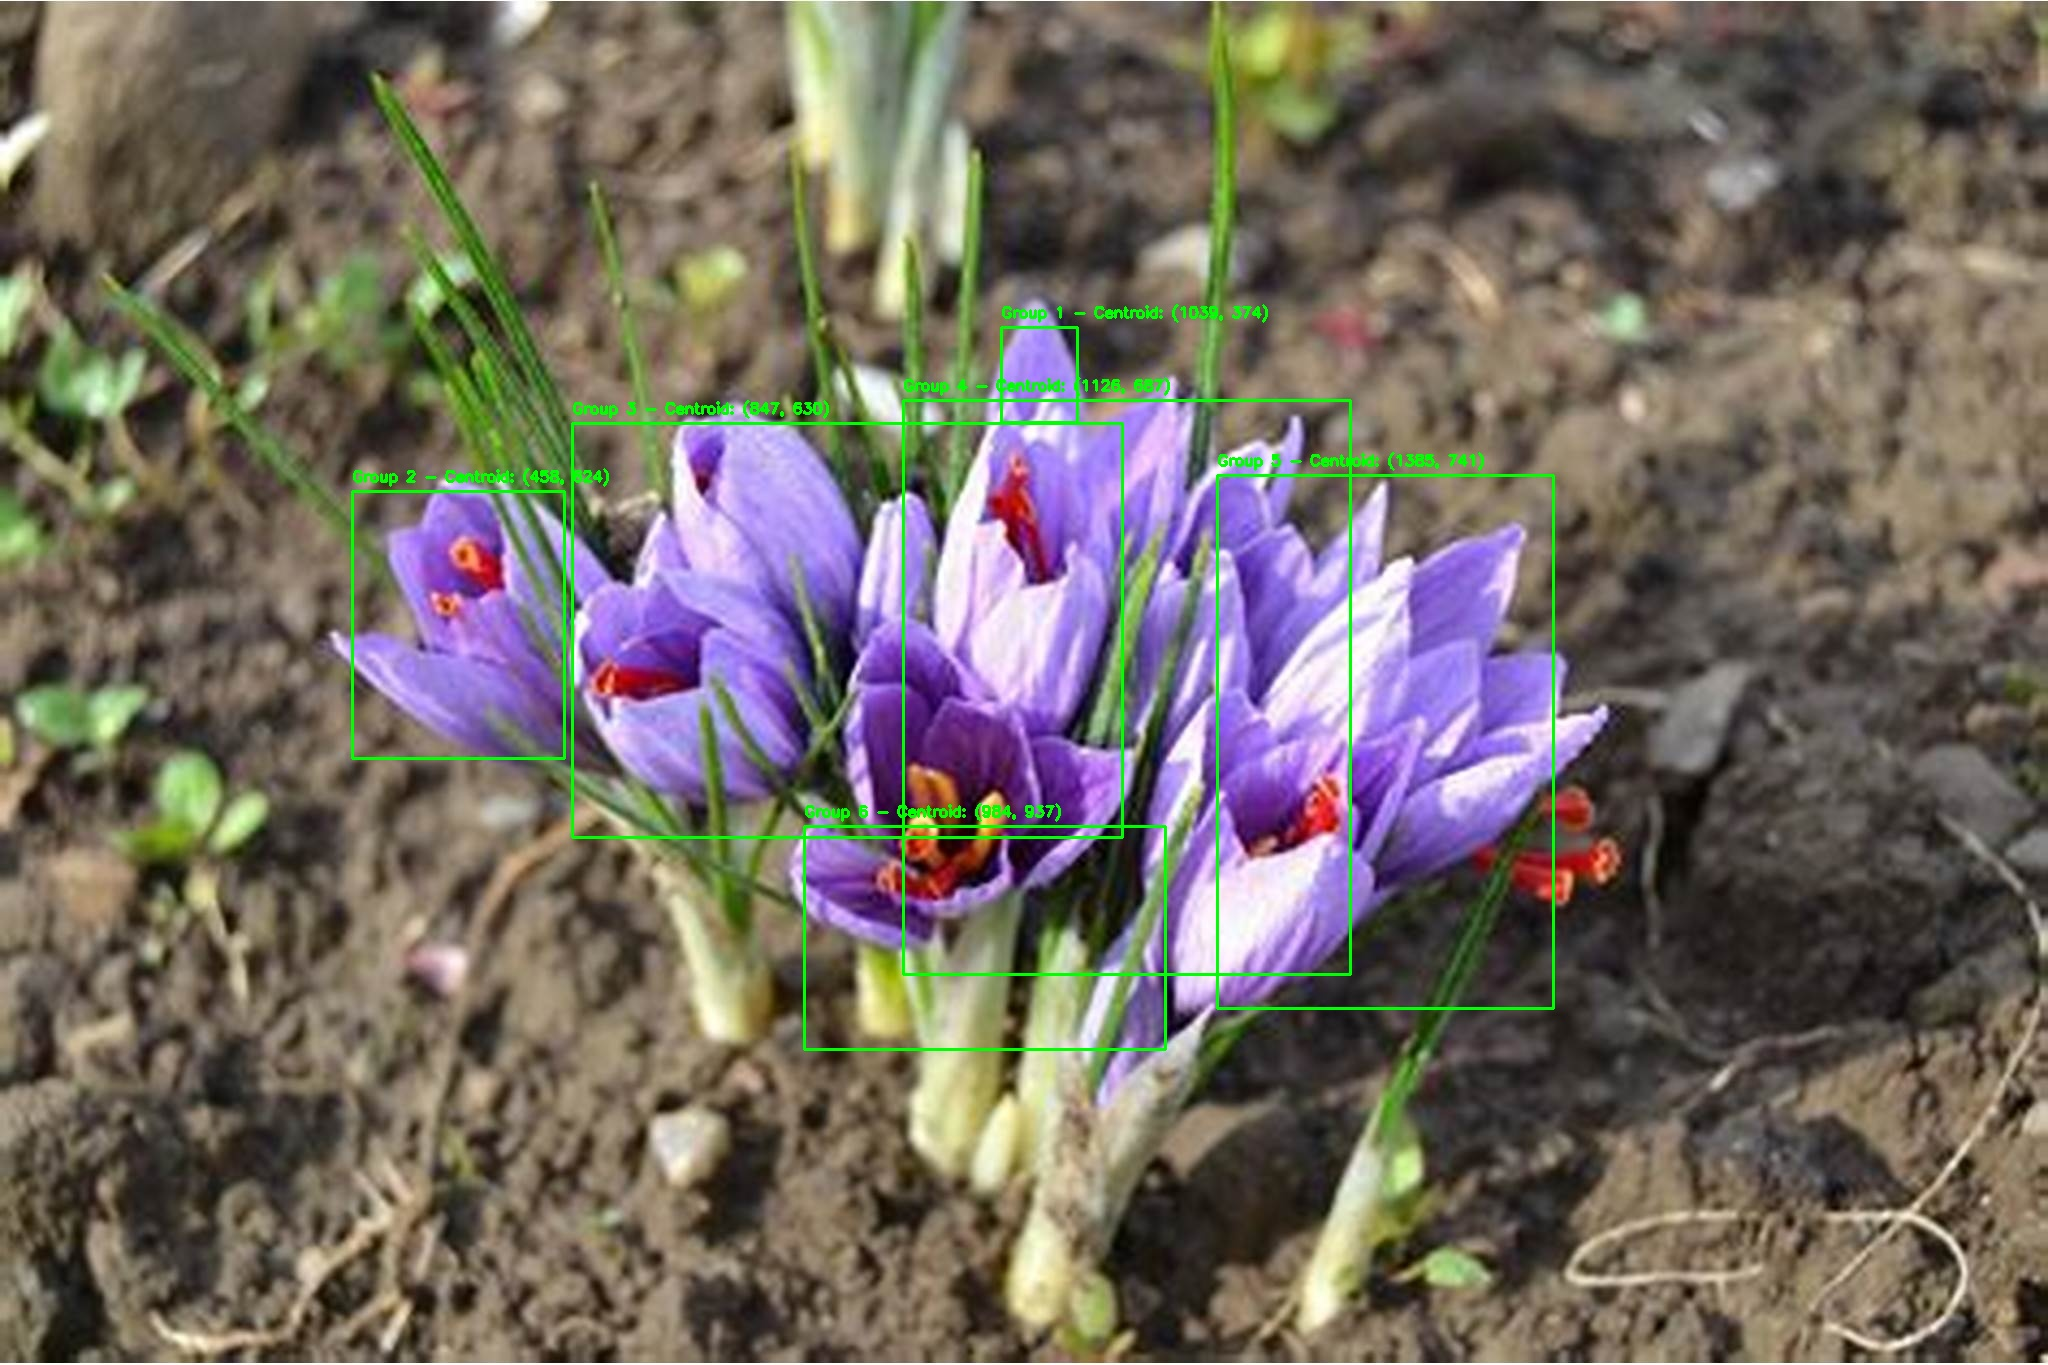
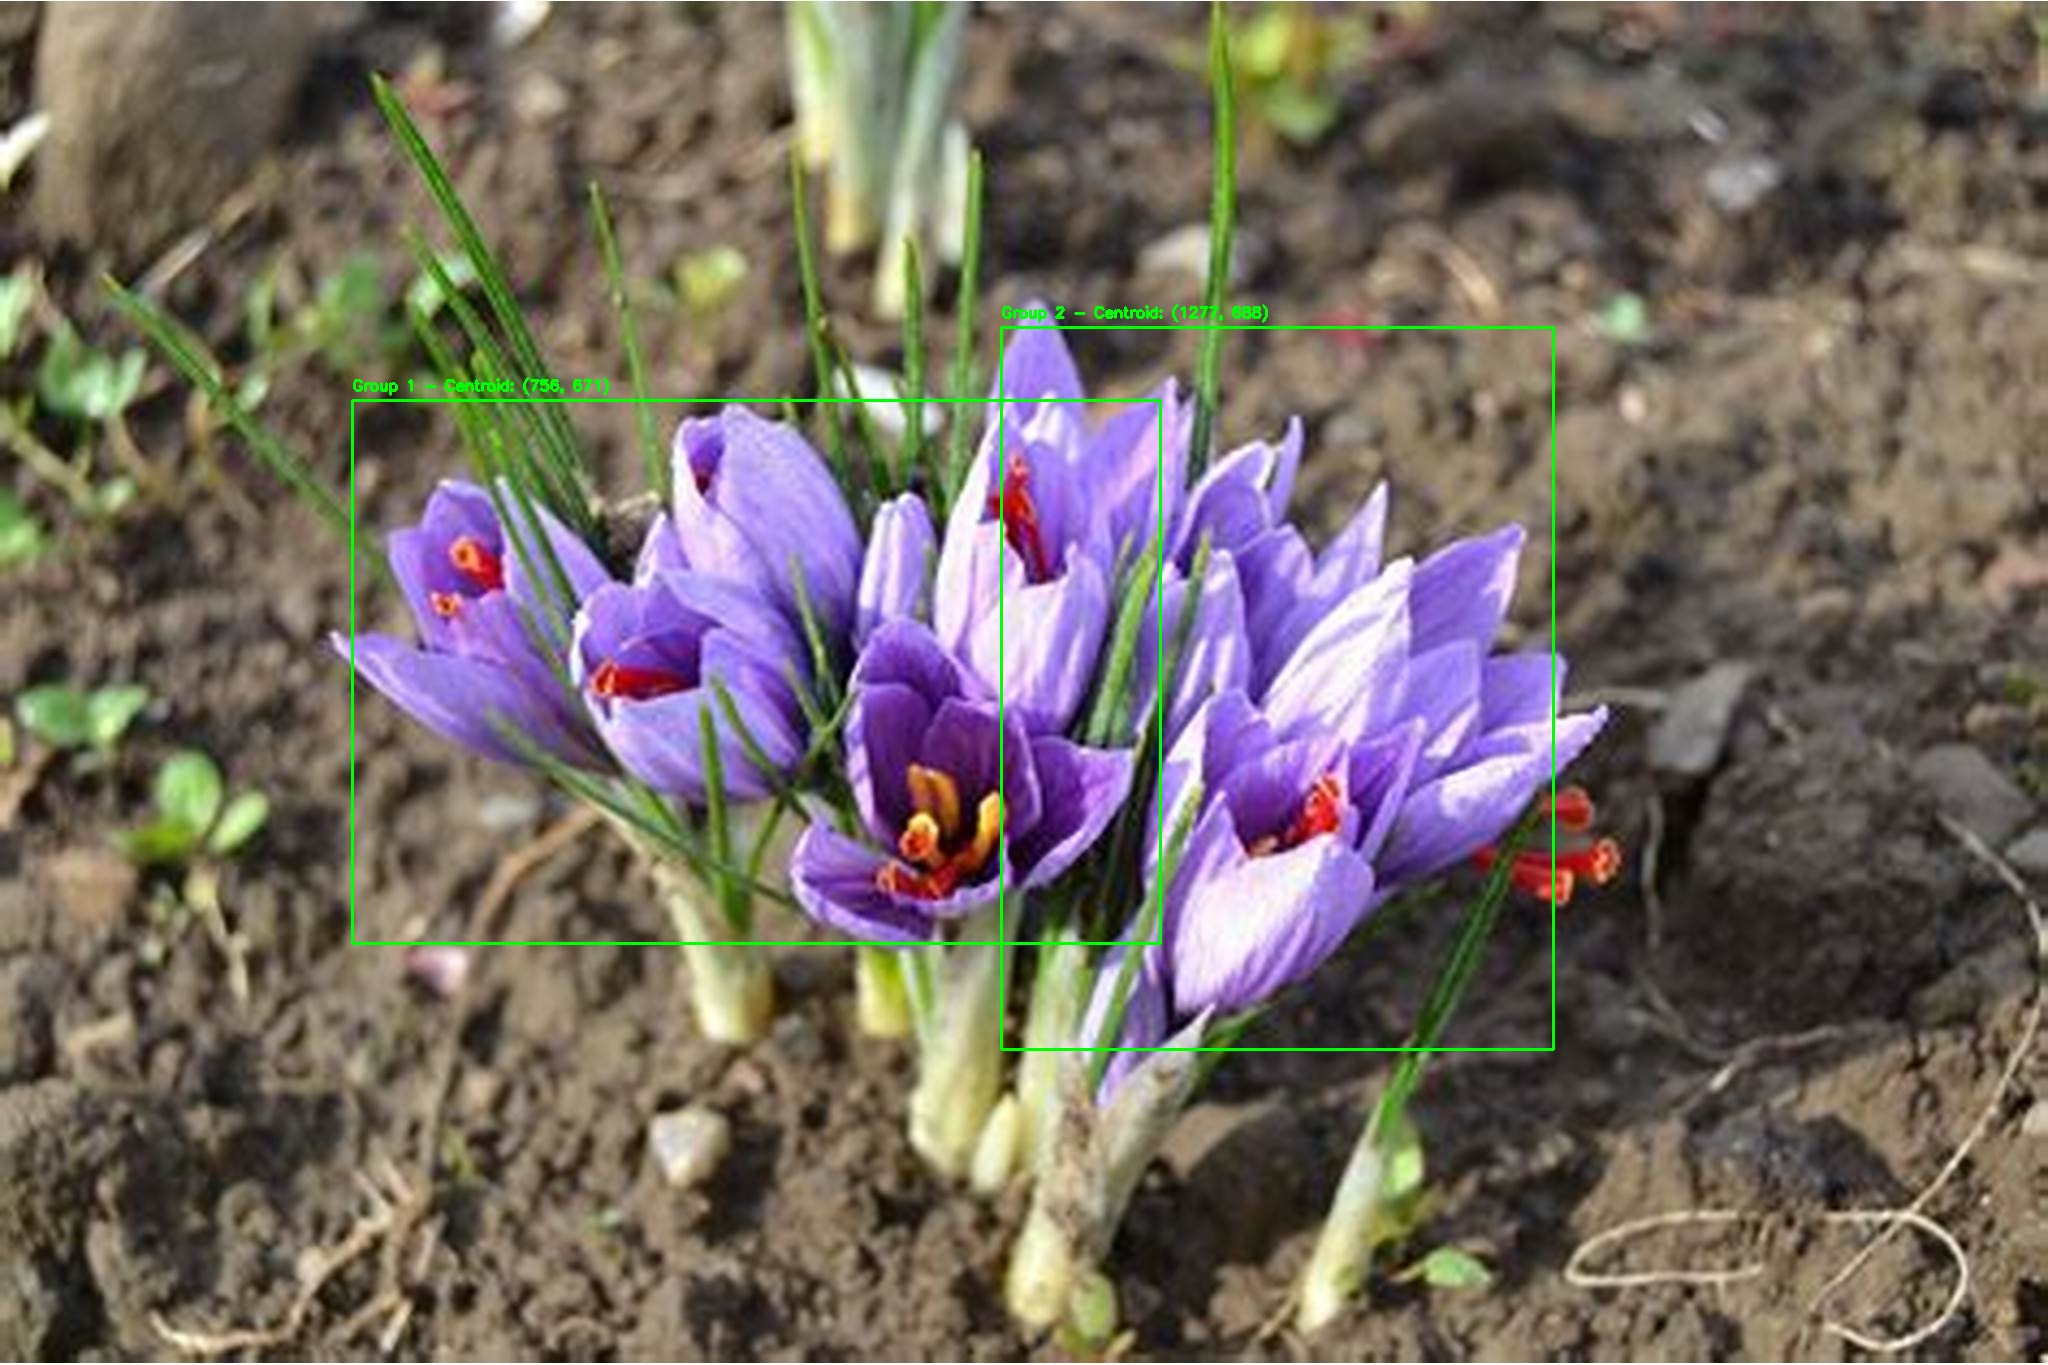
update

diff --git a/saffronBush3.py b/saffronBush3.py
@@ -24,36 +24,49 @@ def perform_morphological_operations(mask):
     mask = cv2.dilate(mask, kernel, iterations=1)
     return mask
 
-def find_and_draw_groups(image, mask, max_group_size=400):
-    """Find contours and draw bounding boxes around grouped flowers without overlap."""
+def calculate_distance(rect1, rect2):
+    """Calculate distance between two rectangles (bounding boxes)."""
+    center1 = ((rect1[0] + rect1[2] // 2), (rect1[1] + rect1[3] // 2))
+    center2 = ((rect2[0] + rect2[2] // 2), (rect2[1] + rect2[3] // 2))
+    return np.sqrt((center1[0] - center2[0]) ** 2 + (center1[1] - center2[1]) ** 2)
+
+def find_and_draw_groups(image, mask, max_group_size=1000, overlap_threshold=500):
+    """Find contours and draw bounding boxes around grouped flowers."""
     contours, _ = cv2.findContours(mask, cv2.RETR_EXTERNAL, cv2.CHAIN_APPROX_SIMPLE)
     filtered_contours = [cnt for cnt in contours if cv2.contourArea(cnt) > 300]  # Minimum area filter
 
-    # Divide image into smaller blocks
-    h, w = image.shape[:2]
-    occupied_blocks = []  # Store blocks that are already used
+    # List to hold bounding boxes of detected groups
+    group_boxes = []
     group_id = 1
-    
-    for cnt in filtered_contours:
-        # Calculate bounding box for each contour
-        x, y, width, height = cv2.boundingRect(cnt)
-        
-        # Calculate block boundaries
-        x_start = (x // max_group_size) * max_group_size
-        y_start = (y // max_group_size) * max_group_size
 
-        # Check if this block overlaps with any existing blocks
-        overlap = False
-        for (bx, by) in occupied_blocks:
-            if (bx < x + width and bx + max_group_size > x) and (by < y + height and by + max_group_size > y):
-                overlap = True
+    # Iterate through contours and group them based on bounding box overlap
+    for cnt in filtered_contours:
+        x, y, w, h = cv2.boundingRect(cnt)
+        new_group = True
+
+        # Check for overlap with existing group boxes
+        for group in group_boxes:
+            group_rect = group['rect']
+            if calculate_distance((x, y, w, h), group_rect) < overlap_threshold:
+                # Merge with existing group
+                group['contours'].append(cnt)
+                group['rect'] = (min(group_rect[0], x), 
+                                 min(group_rect[1], y), 
+                                 max(group_rect[0] + group_rect[2], x + w) - min(group_rect[0], x), 
+                                 max(group_rect[1] + group_rect[3], y + h) - min(group_rect[1], y))
+                new_group = False
                 break
-        
-        # If no overlap, add block and draw group
-        if not overlap:
-            occupied_blocks.append((x_start, y_start))
+
+        if new_group:
+            # Create a new group
+            group_boxes.append({'rect': (x, y, w, h), 'contours': [cnt]})
             draw_group(image, [cnt], group_id)
             group_id += 1
+
+    # Draw updated groups after merging
+    for group in group_boxes:
+        draw_group(image, group['contours'], group_id)
+        group_id += 1
 
 def draw_group(image, contours, group_id):
     """Draw a bounding box around all contours in a group and annotate with group ID."""
@@ -77,10 +90,10 @@ def main(file_path, lower_hue, upper_hue):
         mask = create_mask(hsi_image, lower_hue, upper_hue)
         mask = perform_morphological_operations(mask)
 
-        # Detect and group saffron flowers without overlap
+        # Detect and group saffron flowers
         find_and_draw_groups(image, mask)
 
-        output_file_path = 'E:/saffronImageProcess/Grouped_Saffron_Flowers.jpg'
+        output_file_path = 'E:/saffronImageProcess/Grouped_Saffron_Flowers_NoOverlap.jpg'
         cv2.imwrite(output_file_path, image)
         print(f"Output image saved to {output_file_path}")
     except Exception as e:
@@ -91,4 +104,4 @@ saffron_lower_hue = np.array([120, 100, 100])  # Adjusted lower hue range
 saffron_upper_hue = np.array([140, 255, 255])  # Adjusted upper hue range
 
 # Call the main function for saffron
-main('E:/saffronImageProcess/Source/11.jpg', saffron_lower_hue, saffron_upper_hue)
+main('E:/saffronImageProcess/Source/10.jpg', saffron_lower_hue, saffron_upper_hue)

diff --git a/saffronBush2.py b/saffronBush2.py
@@ -24,7 +24,7 @@ def perform_morphological_operations(mask):
     mask = cv2.dilate(mask, kernel, iterations=1)
     return mask
 
-def find_and_draw_groups(image, mask, max_group_size=400):
+def find_and_draw_groups(image, mask, max_group_size=1000):
     """Find contours and draw bounding boxes around grouped flowers."""
     contours, _ = cv2.findContours(mask, cv2.RETR_EXTERNAL, cv2.CHAIN_APPROX_SIMPLE)
     filtered_contours = [cnt for cnt in contours if cv2.contourArea(cnt) > 300]  # Minimum area filter
